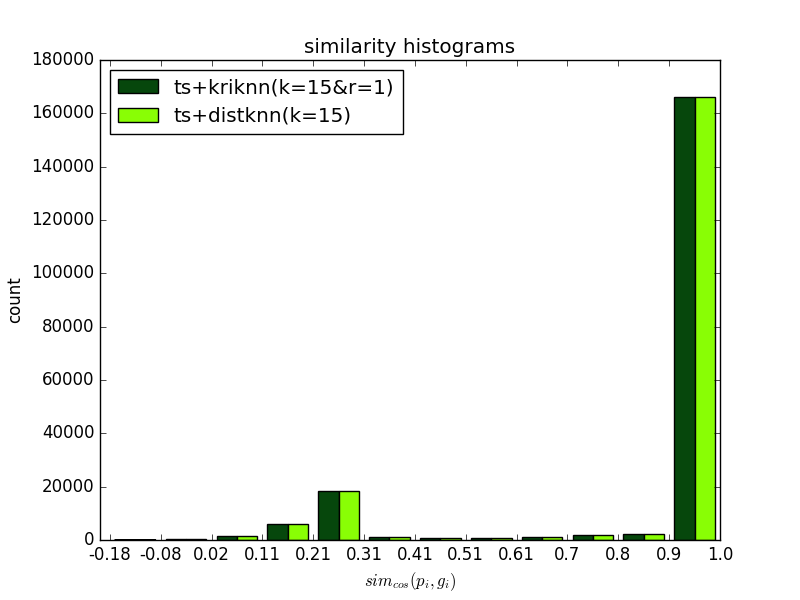
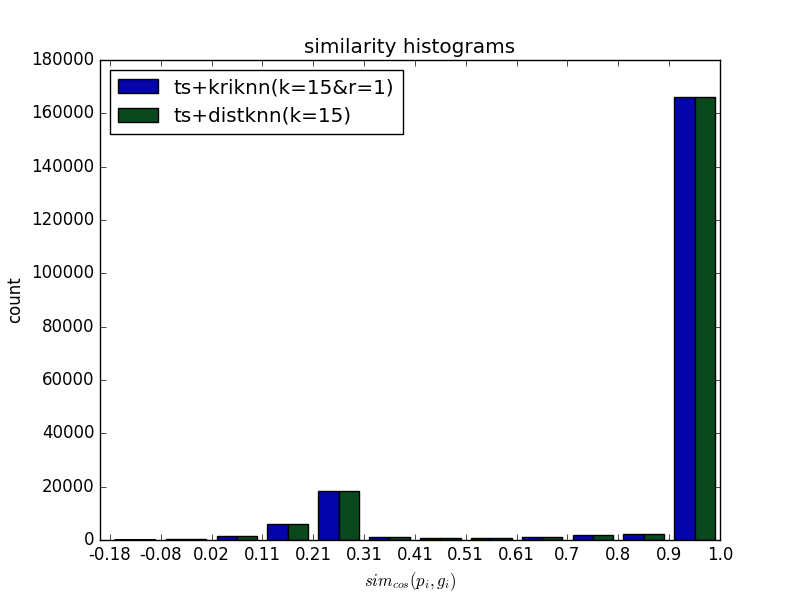
Evaluation and similarity plots.

diff --git a/scripts/plot_prediction_gold_similarities.py b/scripts/plot_prediction_gold_similarities.py
@@ -24,6 +24,7 @@ def main():
     algorithms = [
         'ts+kriknn(k=2&r=1)',
         'ts+kriknn(k=5&r=1)',
+        'ts+kriknn(k=10&r=1)',
         'ts+kriknn(k=15&r=1)',
         'ts+kriknn(k=5&r=10)',
         'ts+kriknn(k=15&r=10)',
@@ -34,9 +35,10 @@ def main():
     combined_plots = [
         ['ts+kriknn(k=15&r=1)', 'ts+pwlinproj(c=30)'],
         ['ts+kriknn(k=15&r=1)', 'ts+distknn(k=15)'],
-        ['ts+kriknn(k=2&r=1)', 'ts+kriknn(k=5&r=1)', 'ts+kriknn(k=15&r=1)'],
+        ['ts+kriknn(k=2&r=1)', 'ts+kriknn(k=5&r=1)', 'ts+kriknn(k=10&r=1)', 'ts+kriknn(k=15&r=1)'],
         ['ts+kriknn(k=5&r=10)', 'ts+kriknn(k=15&r=10)'],
         ['ts+kriknn(k=15&r=1)', 'ts+kriknn(k=15&r=10)'],
+        ['ts+kriknn(k=5&r=1)', 'ts+kriknn(k=5&r=10)', 'ts+kriknn(k=15&r=1)', 'ts+kriknn(k=15&r=10)'],
         ['ts+linproj', 'ts+pwlinproj(c=30)'],
         ['ts+kriknn(k=15&r=1)', 'ts+linproj', 'ts+pwlinproj(c=30)']
     ]
@@ -80,10 +82,11 @@ def main():
         plt.figure(1)
         plt.clf()
         axes = plt.gca()
-        axes.set_xlim([None, 1])
         n, bins, _ = plt.hist(similarities[algorithm], bins=nbins, label=algorithm, color=algo2color(algorithm))
         for idx, value in enumerate(n):
             plt.text(bins[idx], value+1, s=str(int(value)))
+        axes.relim()
+        axes.autoscale()
         plt.xticks(bins, np.round(bins, decimals=2))
         plt.xlabel('$\mathit{sim}_\mathit{cos}(p_i, g_i)$')
         plt.ylabel('count')
@@ -96,15 +99,16 @@ def main():
         plt.figure(1)
         plt.clf()
         axes = plt.gca()
-        axes.set_xlim([None, 1])
         n, bins, _ = plt.hist(similarities[algorithm], bins=nbins, label=algorithm, color=algo2color(algorithm),
                               cumulative=True, normed=True)
         for idx, value in enumerate(n):
             plt.text(bins[idx], value+0.01, s=str(np.round(value, decimals=round_to)))
+        axes.relim()
+        axes.autoscale()
         plt.xticks(bins, np.round(bins, decimals=2))
         plt.xlabel('$\mathit{sim}_\mathit{cos}(p, g)$')
         plt.ylabel('$P[x \leq X]$')
-        plt.title('{}: $P[x \leq X]$ cumulative similarity distribution'.format(algorithm))
+        plt.title('{}: $P[x \leq X]$ similarity distribution'.format(algorithm))
         plt.savefig(leq_sim_distr_plot_path.format(algorithm))
         plt.clf()
         logging.log(level=logging.INFO, msg='plotted cumulative similarity distribution of {}\n stored in {}'
@@ -117,7 +121,10 @@ def main():
         # plot similarity histogram
         plt.figure(1)
         plt.clf()
+        axes = plt.gca()
         n, bins, _ = plt.hist(sim, bins=nbins, label=combined_plot, color=[algo2color(algo) for algo in combined_plot])
+        axes.relim()
+        axes.autoscale()
         plt.xticks(bins, np.round(bins, decimals=2))
         plt.legend(loc=2)
         plt.xlabel('$\mathit{sim}_\mathit{cos}(p_i, g_i)$')
@@ -132,9 +139,10 @@ def main():
         plt.figure(1)
         plt.clf()
         axes = plt.gca()
-        axes.set_xlim([None, 1])
         n, bins, _ = plt.hist(sim, bins=nbins, label=combined_plot, color=[algo2color(algo) for algo in combined_plot],
                               cumulative=True, normed=True)
+        axes.set_xlim([None, 1])
+        axes.set_ylim([0, 1])
         plt.xticks(bins, np.round(bins, decimals=2))
         plt.legend(loc=2)
         plt.xlabel('$\mathit{sim}_\mathit{cos}(p, g)$')

diff --git a/evaluation/utils.py b/evaluation/utils.py
@@ -50,14 +50,19 @@ def load_embeddings_and_labels(embeddings_path: str)->Tuple[np.array, List[str]]
 
 def algo2color(algo):
     colors = {
-        'ts+kriknn(k=2&r=1)': '#01ff07',  # bright green
-        'ts+kriknn(k=5&r=1)': '#3f9b0b',  # grass green
-        'ts+kriknn(k=5&r=10)': '#8eab12',  # pea green
-        'ts+kriknn(k=15&r=1)': '#06470c',  # forest green
-        'ts+kriknn(k=15&r=10)': '#4b5d16',  # army green
-        'ts+distknn(k=15)': '#89fe05',  # lime green
-        'ts+linproj': '#00ffff',  # cyan
-        'ts+pwlinproj(c=30)': '#00035b',  # dark blue
+        'ts+kriknn(k=2&r=1)': '#75bbfd',  # sky blue
+        'ts+kriknn(k=5&r=1)': '#8fff9f',  # mint green
+        'ts+kriknn(k=10&r=1)': '#137e6d',  # blue green
+        'ts+kriknn(k=15&r=1)': '#0504aa',  # royal blue
+        'ts+kriknn(k=5&r=10)': '#82a67d',  # greyish green
+        'ts+kriknn(k=15&r=10)': '#02d8e9',  # aqua blue
+        'ts+distknn(k=15)': '#0a481e',  # pine green
+        'ts+linproj': '#ff9408',  # tangerine
+        # 'ts+pwlinproj(c=5)': '',
+        # 'ts+pwlinproj(c=10)': '',
+        # 'ts+pwlinproj(c=20)': '',
+        'ts+pwlinproj(c=30)': '#840000',  # dark red
+        # 'ts+pwlinproj(c=50)': ''
     }
     default = '#e50000'  # red
     return colors.get(algo, default)

diff --git a/scripts/evaluate_hybrid_algorithms.py b/scripts/evaluate_hybrid_algorithms.py
@@ -23,6 +23,7 @@ def main():
         'ts+distknn(k=15)',
         'ts+kriknn(k=2&r=1)',
         'ts+kriknn(k=5&r=1)',
+        'ts+kriknn(k=10&r=1)',
         'ts+kriknn(k=15&r=1)',
         'ts+kriknn(k=5&r=10)',
         'ts+kriknn(k=15&r=10)',
